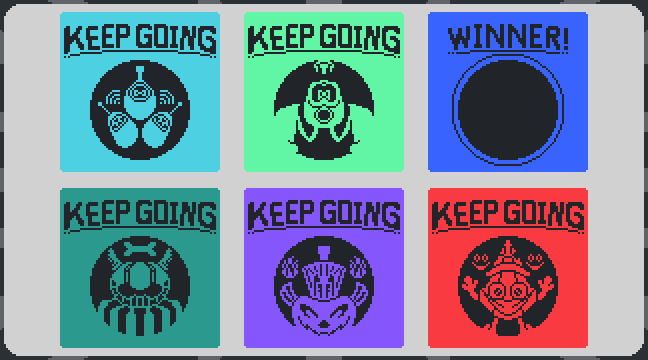
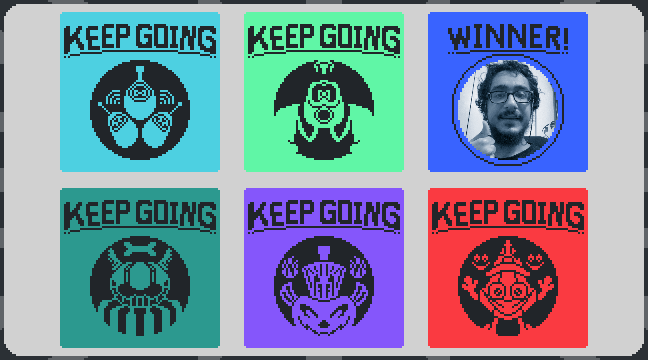
Finishing find my face, fixing case study 1, and adjusting lines

Changed region(s): [[0.7099, 0.1528, 0.8642, 0.4583]]

diff --git a/studies/studyEature.html b/studies/studyEature.html
@@ -30,53 +30,68 @@
         </script>
 
         <!-- CONTENT -->
-        <div class="container container-md pt-5 text-center">
+        <div class="container container-md pt-5 text-center" id="eature">
             <!-- TITLE AND DEMO -->
             <br></br><br></br>
-            <h1 class="display-1"> 🎮 EATure Prototype 🎮 </h1>
-            <p></p>
-            <p> An EATure game prototype, complete with custom graphics, music, interesting gameplay! </p>
-            <!-- GAME -->
-            <iframe src="../EATure/index.html" frameborder="0" width="600" height="400"></iframe>
+            <h1 class="display-1" > 🎮 EATure Prototype 🎮 </h1>
 
-            <p> HOW TO PLAY<br> Move your move to move the EATure. Adjust the EATure's speed with your scroll and click to stop them.</br> You lose when the EATure touches an enemy or eats your mouse! </p>
-            <br><br></br></br>
+            <br><div class="dark"><br>
+                <p> An <b>EATure</b> game prototype, complete with <b>custom</b> graphics, music, and <b>interesting gameplay!</b> </p>
+                <!-- GAME -->
+                <iframe src="../EATure/index.html" frameborder="0" width="600" height="400"></iframe>
+                <p> <h4>HOW TO PLAY</h4> <b>Move your move</b> to move the EATure. Adjust the EATure's speed with your <b>scroll</b> and <b>click to stop them.</b></br> You lose when the EATure <b>touches an enemy or eats your mouse!</b> </p>
+            <br></div>
+            <br><br>
+
+            <div class="progress">
+                <div class="progress-bar progress-bar-striped progress-bar-animated bg-secondary" role="progressbar" aria-label="Divider" aria-valuenow="100" aria-valuemin="0" aria-valuemax="100" style="width: 100%"></div>
+            </div>
+            <br><br>
             
             <!-- BODY -->
             <div class="row">
-                <!-- DETAILS -->
-                <div class="col text-start">
-                    <h2> A Simple Premise... </h2>
-                    <p> It starts with a single simple assignment, to make a prototype using our prefered development software. I wanted to make a small game prototype that appeals to all-ages with unique and rewarding gameplay (specifically needed innovation on the "mouse avoider" genre), and creative character designs and good animations. </p>
+                <!-- IMPACT SUMMARY -->
+                <div class="col-6 text-start">
+                    <h2> 💥 IMPACT Summary </h2>
                     <br>
-                    <h2> Research into the Past </h2>
-                    <p> I realized a lot of games within the small mouse avoider genre follow the same template of simply having you mouse avoid different kinds of enemeies, so what should I do to change things up? I took some inspiration from an older game I made years ago that had the intriguing mechanic of a player that follows food on the mouse but can't touch it. I also had to research on using sine waves in GDevelop games as enemy paths. </p>
-                    <br>
-                    <h2> Documenting the Delicacy </h2>
-                    <img src="../img/EPwf.jpg" alt="EATure game screen wireframe">
-                    <p> After making the propsal/wireframes and character concepts (each character design uses shapes/lines to visually show their movement path), I started using GDevelop to make the game and art, and Garageband to work on the loopable music during times I couldn't work on the game (like in transit). I had challenges with choosing an art direction, which I overcame by using 32x32 pixel art images for each character. </p>
-                    <img src="../img/EPss.jpg" alt="Early EATure development screenshot" style="width: 75%;">
-                    <p> I began with working on the basic controls with the idea of expanded functionality like using the scroll wheel of the mouse to change speed to expand upon the genre. Next I worked on the different enemies and their spawning. I then finalized the character designs and music and drew out each character, collectable, and animation to finish things off. For fluid animations, I also made the speed of an animation correlate to an object's movement speed. </p>
-                    <img src="../img/EPca.jpg" alt="EATure character concept art" style="width: 50%;">
-                    <br></br>
-                    <h2> Recipe for Success! </h2>
-                    <p> Not only did I complete my goals of making a challenging yet balanced game with finess that looks and plays good, but got above perfect marks by going above and beyond too. I also made a prototype that can be easily expaned upon (like with the scrapped enemy and power-ups for example). </p>
-                    <br>
-                    <h2> Takeout Takeaways </h2>
-                    <p> Lots of aspects of the game turned out pretty well (like the gameplay, art, and music) but things that could've been done differently was adding more sound effects, making the game screen bigger, and making the small mouse hitbox more obvious. Things I learned from this project include how to turn sine waves into enemy movement and how to better stick to a set scope. </p>
-                    <br>
-                    <h2> In Closing but not the End? </h2>
-                    <p> To conclude, I was able to set and complete a clear scope for an innovative and fun game prototype in the mouse avoider genre that not only has great art and music, but also got superb marks with endless expandibility. Consider collabing to help bring EATure to its full potential? </p>
+                    <p> <b>• Perfect Grades and Beyond! </p>
+                    <p> • Unique and Challenging Gameplay! </p>
+                    <p> • Prototype that is Easily Expandible!</b> </p>
+                    <br></br><br>
                 </div>
 
-                <!-- IMPACT SUMMARY -->
-                <div class="col text-end">
-                    <h2> 💥 IMPACT Summary </h2>
-                    <p> <b>•</b> Perfect Grades and Beyond! </p>
-                    <p> <b>•</b> Unique and Challenging Gameplay! </p>
-                    <p> <b>•</b> Prototype that is Easily Expandible! </p>
+                <!-- DETAILS -->
+                <div class="col-6 text-start">
+                    <h2> A Simple Premise... </h2><br>
+                    <p> It starts with a single simple assignment, to make a prototype using our prefered development software. I wanted to make a small game prototype that appeals to all-ages with unique and rewarding gameplay (specifically needed innovation on the "mouse avoider" genre), and creative character designs and good animations. </p>
                 </div>
             </div>
+
+            <h2> Research into the Past </h2><br>
+            <p> I realized a lot of games within the small mouse avoider genre follow the same template of simply having you mouse avoid different kinds of enemeies, so what should I do to change things up? I took some inspiration from an older game I made years ago that had the intriguing mechanic of a player that follows food on the mouse but can't touch it. I also had to research on using sine waves in GDevelop games as enemy paths. </p>
+            <br><hr style="width: 10%;  margin-left: auto; margin-right: auto;"></br>
+            
+            <br>
+            <h2> Documenting the Delicacy </h2><br>
+            <img src="../img/EPwf.jpg" alt="EATure game screen wireframe" style="width: 38%;"> <img src="../img/EPca.jpg" alt="EATure character concept art" style="width: 25%;">
+            <br><br><p> After making the propsal/wireframes and character concepts (each character design uses shapes/lines to visually show their movement path), I started using GDevelop to make the game and art, and Garageband to work on the loopable music during times I couldn't work on the game (like in transit). I had challenges with choosing an art direction, which I overcame by using 32x32 pixel art images for each character. </p>
+            <hr style="width: 5%; margin-left: auto; margin-right: auto;">
+            <img src="../img/EPss.jpg" alt="Early EATure development screenshot" style="width: 50%;">
+            <br><br><p> I began with working on the basic controls with the idea of expanded functionality like using the scroll wheel of the mouse to change speed to expand upon the genre. Next I worked on the different enemies and their spawning. I then finalized the character designs and music and drew out each character, collectable, and animation to finish things off. For fluid animations, I also made the speed of an animation correlate to an object's movement speed. </p>
+            
+                
+            <br></br>
+            <h2> Recipe for Success! </h2><br>
+            <p> Not only did I complete my goals of making a challenging yet balanced game with finess that looks and plays good, but got above perfect marks by going above and beyond too. I also made a prototype that can be easily expaned upon (like with the scrapped enemy and power-ups for example). </p>
+                    
+            <br><hr style="width: 10%;  margin-left: auto; margin-right: auto;"></br>
+            <h2> Takeout Takeaways </h2><br>
+            <p> Lots of aspects of the game turned out pretty well (like the gameplay, art, and music) but things that could've been done differently was adding more sound effects, making the game screen bigger, and making the small mouse hitbox more obvious. Things I learned from this project include how to turn sine waves into enemy movement and how to better stick to a set scope. </p>
+                
+            <br></br>
+            <h2> In Closing but not The End? </h2><br>
+            <p> To conclude, I was able to set and complete a clear scope for an innovative and fun game prototype in the mouse avoider genre that not only has great art and music, but also got superb marks with endless expandibility. Consider collabing to help bring EATure to its full potential? </p>
+
         </div>
 
         <!-- FOOTER -->

diff --git a/studies/studyMonsterTime.html b/studies/studyMonsterTime.html
@@ -36,10 +36,10 @@
             <h1 class="display-1"> 🎨 Monster Timeline Art 🎨 </h1>
             
             <br><div class="dark"><br>
-                <p> A ghoulish spiral monster timeline illustration drawn on Procreate as part of a group project just in time for Halloween 🎃 </p>
+                <p> <b>A ghoulish spiral monster timeline</b> illustration drawn on <b>Procreate</b> as part of a group project <b>just in time for Halloween 🎃</b> </p>
                 <img src="../img/MTstl.jpg" alt="The Monster Spiral Timeline I Illustrated" style="width: 75%;">
                 <p></p>
-                <p> And below is the full timeline from our presentation with the spiral in it, thanks to the rest of my group for building this out while I drew our scary spiral! </p>
+                <p> And below is the <b>full timeline</b> from our presentation with the spiral in it, <b>thanks to the rest of my group</b> for building this out while I drew our scary spiral! </p>
                 <img src="../img/MTftl.jpg" alt="Our Full Monster Timeline" style="width: 100%;">
             <br></div>
             <br><br>
@@ -55,9 +55,9 @@
                 <div class="col-6 text-start">
                     <h2> 💥 IMPACT Summary </h2>
                     <br>
-                    <p> <b>•</b> Loved by and Personally Connected to our Audience! </p>
-                    <p> <b>•</b> Sprial Stood out from the Crowd of Line Timelines! </p>
-                    <p> <b>•</b> Timeline Extra Detailed and Perfect for Printing! </p>
+                    <p> <b>• Loved by and Personally Connected to our Audience! </p>
+                    <p> • Sprial Stood out from the Crowd of Line Timelines! </p>
+                    <p> • Timeline Extra Detailed and Perfect for Printing!</b> </p>
                     <br></br><br>
                 </div>
 
@@ -79,7 +79,7 @@
             <img src="../img/MTca2.jpg" alt="Spiral Monster Timeline Concept" style="width: 50%;">
             <br><br><p> Next we find and think of as a group what kind of timeline format/style we'd want. We floated around different ideas, like a circle-based planet orbit idea, before landing on a spiral shape to represent the cultural ouroboros of the concept of monsters, and I would make a coloured concept of the spiral timeline. After adjustments to the spiral itself were made (like making it tilted for added depth and focus) and a new monster selection I was able to finish our monster timeline spiral. Each monster is represented by a unique single colour for themselves. </p>
 
-            <br><hr style="width: 10%;  margin-left: auto; margin-right: auto;"><br>
+            <br><br>
             <h2> A Fright to Remember... </h2><br>
             <p> We were able to finish in time for the spookiest day of the year! Our full group "A Monstrum Continuum" presentation was received super positively by our audience with all of its other components along with the spiral timeline, with it reminding someone of "avant-garde from the 2000s" for example. It was able to stand out by being the only spiral timeline among other groups' line timelines, and I also made it super detailed to make it the most effective when printed at the large scale these timelines are gonna be printed at. </p>
 
@@ -87,7 +87,7 @@
             <h2> Self-Reflecting our Inner Monster </h2><br>
             <p> Our timeline and project storytelling went really well for this ghoulicious group project! One thing we could've done different with the spiral timeline was make it more image collage-y and added text to it if I had more time to draw it. We learned a lot of phylisophical things about the nature of humanity and how it mirrors and personifies fear from this, but for something less phylisophical then I personlly learned that I could make an illustrated timeline as big as that in as little time as it did. </p>
             
-            <br><hr style="width: 10%;  margin-left: auto; margin-right: auto;"></br>
+            <br></br>
             <h2> Trick-or-Treating's End... </h2><br>
             <p> In closing, our spooky spiral timeline was one main component in our monster presentation on Halloween that stood out from the crowd and made them in awe. But you don't need to wait until next Halloween to contact me for a custom creative commision however! </p>
         </div>

diff --git a/studies/studyNeilaggs.html b/studies/studyNeilaggs.html
@@ -39,7 +39,7 @@
                 <p> <b>Just kidding!</b> You are connected to the internet! <b>Click to play</b> my first game jam game that is old but gold! </p>
                 <!-- GAME -->
                 <iframe frameborder="0" src="https://itch.io/embed-upload/5004771?color=000000" allowfullscreen="" width="352" height="212"><a href="https://deepysingh800-games.itch.io/neilaggs-without-wi-fi">Play Neilaggs Without Wi-Fi on itch.io</a></iframe>
-                <p> <h4>HOW TO PLAY</h4> LEFT click to start in singleplayer from the title, RIGHT to start in local multiplayer from the title.</br> Player 1 uses the ARROW keys to move (or WASD in singleplayer), while player 2 uses WASD to move in local multiplayer. </p>
+                <p> <h4>HOW TO PLAY</h4> <b>LEFT click</b> to start in singleplayer from the title, <b>RIGHT click</b> to start in local multiplayer from the title.</br> <b>Player 1</b> uses the <b>ARROW keys</b> to move (or WASD in singleplayer), while <b>player 2</b> uses <b>WASD</b> to move in local multiplayer. </p>
             <br></div>
             <br><br>
 
@@ -50,14 +50,13 @@
             
             <!-- BODY -->
             <div class="row">
-                
                 <!-- IMPACT SUMMARY -->
                 <div class="col-6 text-start">
                     <h2> 💥 IMPACT Summary </h2>
                     <br>
-                    <p> <b>•</b> Still a deceptively simple and chaotic fun single or multiplayer experience! </p>
-                    <p> <b>•</b> Featured on RAWG! </p>
-                    <p> <b>•</b> Lead to even more creative game jam creations by me! </p>
+                    <p> <b>• Still a deceptively simple and chaotic fun single or multiplayer experience! </p>
+                    <p> • Featured on RAWG! </p>
+                    <p> • Lead to even more creative game jam creations by me!</b> </p>
                     <br></br><br>
                 </div>
 
@@ -75,7 +74,7 @@
             <h2> Swift Development </h2><br>
             <p> When I finish the character concept art, I started experimenting with the "alien" development software I never used before. I was able to find features like screen looping that I would later use in the finished game. Then after hectic gameplay has been made, I made the pixel art and animations, multiplayer, bugfixes, effects, and an intro screen starting on "No Internet". Neilaggs (name of the alien egg-like protagonists) Without Wi-Fi was complete and with time to spare! </p>
             
-            <br><hr style="width: 10%;  margin-left: auto; margin-right: auto;"></br>
+            <br></br>
             <h2> Jam Results </h2><br>
             <img src="../img/WFss1.jpg" alt="Neilaggs Without Wi-Fi game screenshot" style="width: 50%;"><br></br>
             <p> The jam rankings/results were never revealed, but the top contenders were given community voting polls. Even though I didn't win, I still created and chaotic and fun single and multiplayer that seems simple but is hard to master. Unknowingly to me, my game would later be featured on the professional game database site RAWG.io later on too. My first game jam experience was so good that I would later go on to make many more unique game jam game experiences. </p>
@@ -84,7 +83,7 @@
             <h2> An Extraterrestrial Experience! </h2><br>
             <p> The simple gameplay and character designs went really well for my first jam, but maybe I could've adjusted the difficulty. The game got a lot of lovely feedback comments during the game jam that included feedback about how hard the game was, and I learned how fun and collaborative game jams could be, as well as how more creative you could be with each jam's limits. </p>
             
-            <br><hr style="width: 10%;  margin-left: auto; margin-right: auto;"></br>
+            <br></br>
             <h2> Departing the UFO... </h2><br>
             <p> In conclusion, I was able to create a delightful little no internet browser game experience for my first game jam that is still fun to play that lead to more fun jam games and got a surprised feature. Speaking of being featured, feel free to reach out for some more creative game concepts, with or without a theme! </p>
         </div>

diff --git a/css/styles.css b/css/styles.css
@@ -195,9 +195,9 @@ img, .card, main, iframe {
 }
 
 .dark {
-    background-color: #2125291f !important;
+    background-color: #ffffff60 !important;
     border-radius: 100px;
-    
+    background-color: #2125291f;
 }
 
 .dark {
